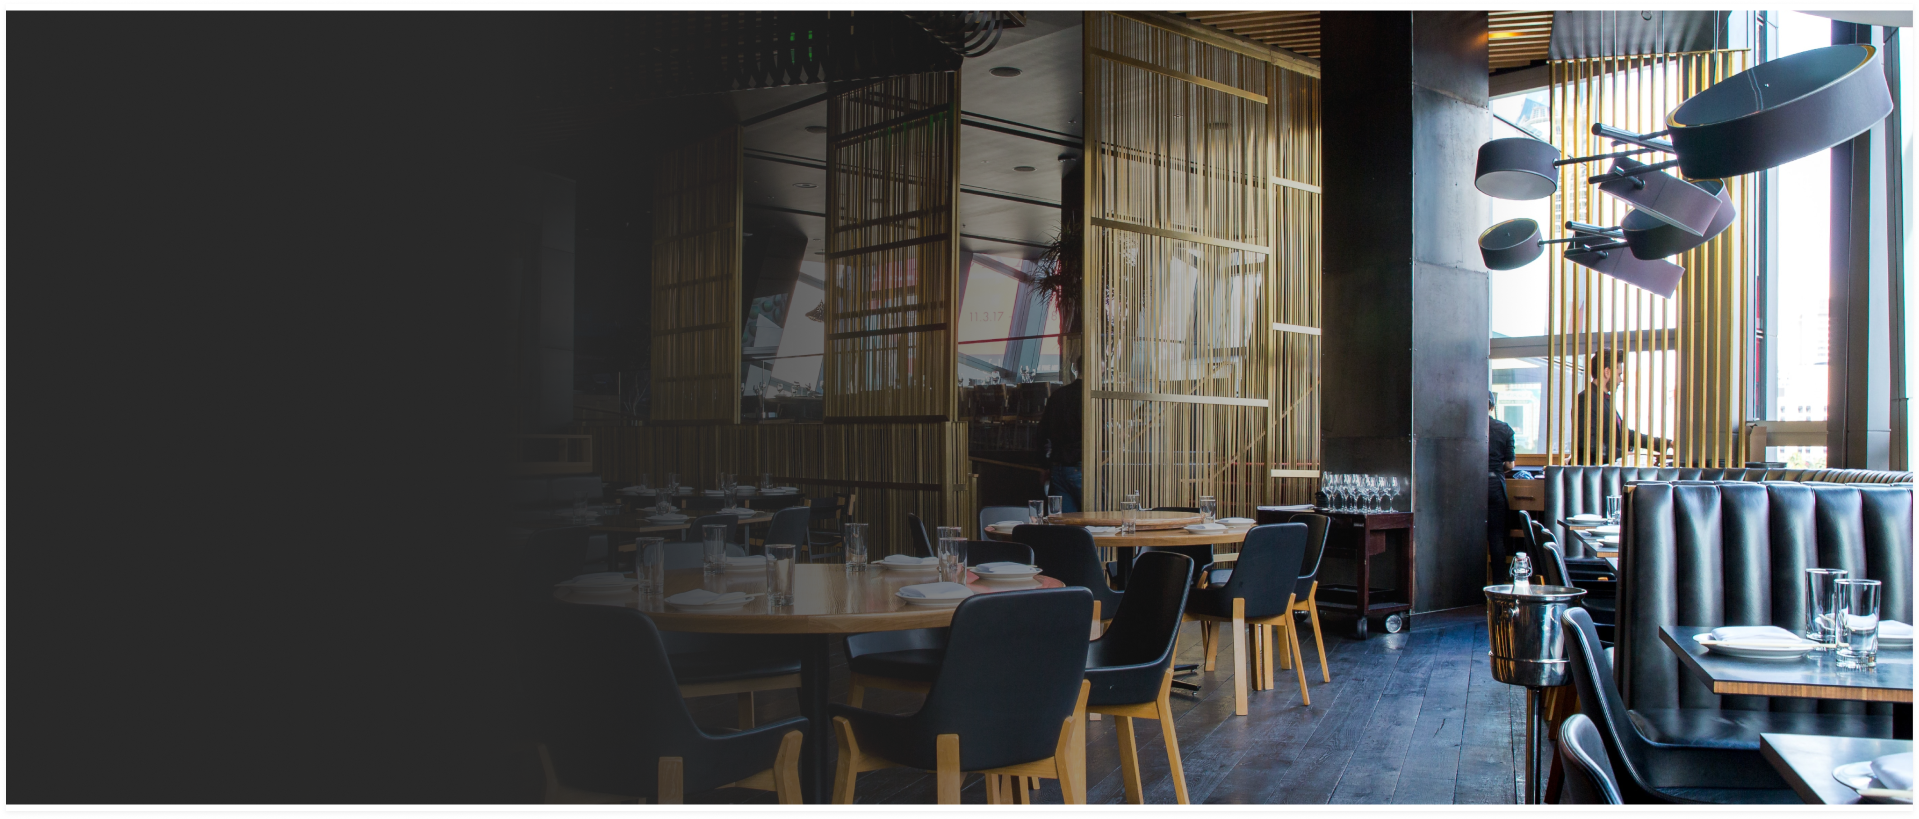
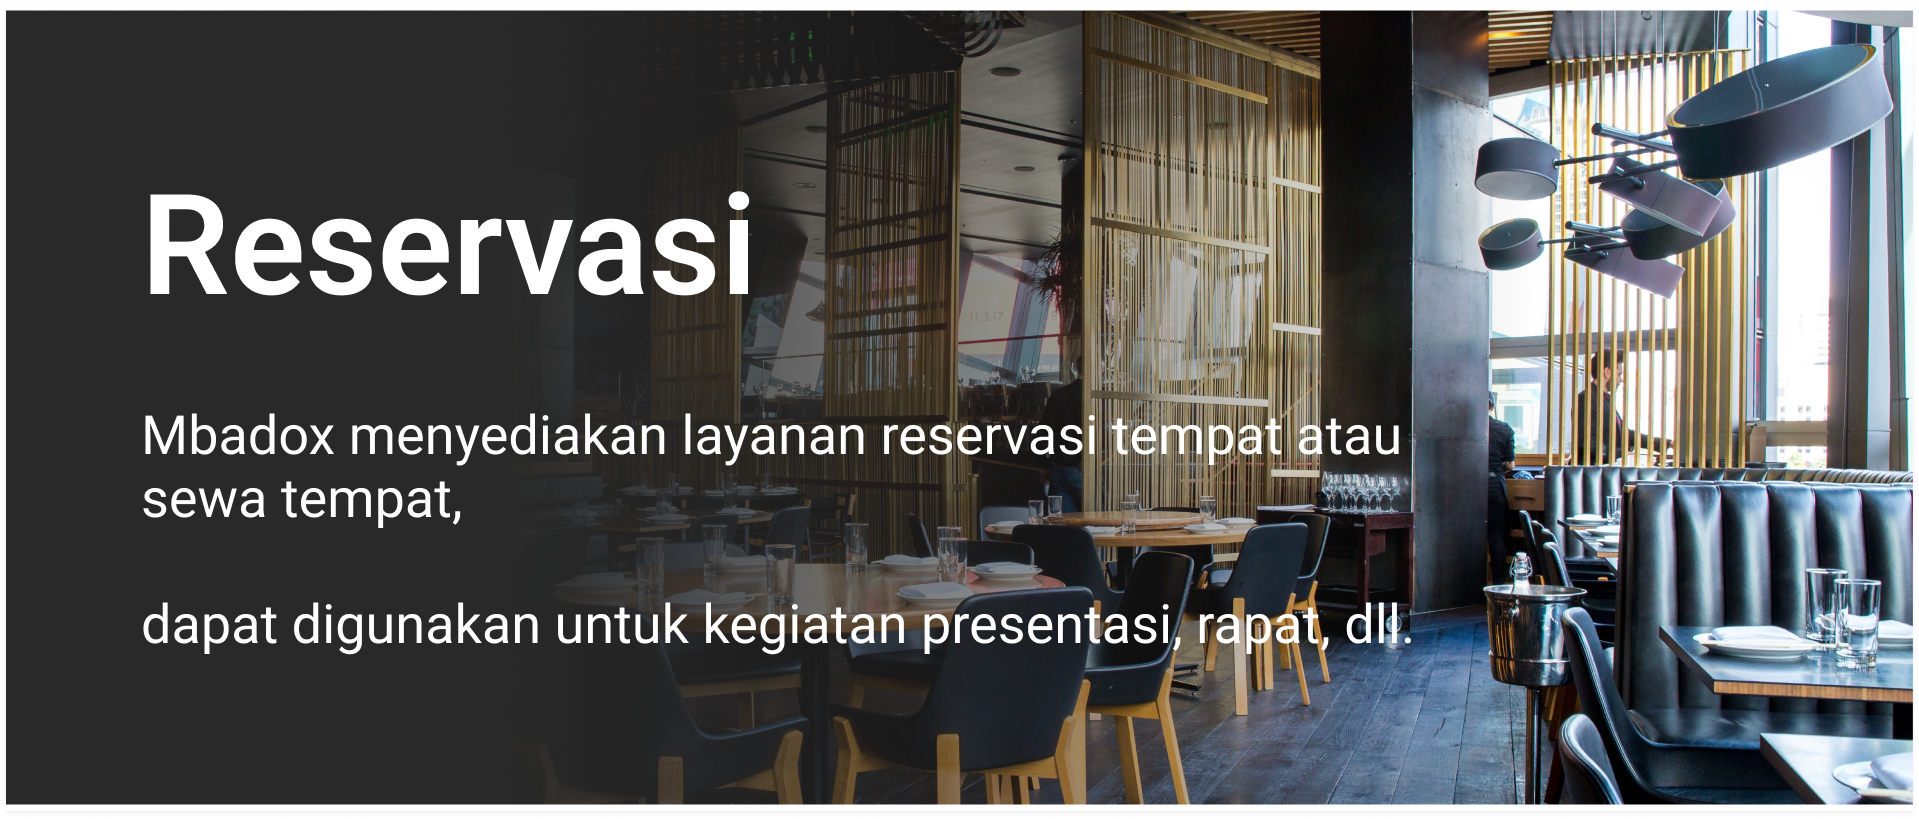
update gambar reservasi

Changed region(s): [[0.0615, 0.2137, 0.3997, 0.3663], [0.0615, 0.7326, 0.7379, 0.7937], [0.0615, 0.5189, 0.7379, 0.641]]

diff --git a/lib/Reservasi/Reservasi.dart b/lib/Reservasi/Reservasi.dart
@@ -21,103 +21,122 @@ class Reservasi extends StatelessWidget {
 
   @override
   Widget build(BuildContext context) {
-    return SingleChildScrollView(
-      child: Column(
-        children: [
-          Container(
-              margin: EdgeInsets.fromLTRB(0, 0, 0, 20),
-              decoration: BoxDecoration(boxShadow: [
-                BoxShadow(
-                    color: Color.fromARGB(255, 197, 197, 197),
-                    blurRadius: 6,
-                    offset: Offset(0, 2))
-              ]),
-              child: Image.asset('image/appbarReservasi2.png')),
-          // MENU SEBELAH KIRI //
-          Row(
-            children: [
-              // MENU KIRI //
-              Expanded(
-                  child: Column(
-                children: [
-                  CardReservasi(
-                    namaGambar: 'images/RES1.png',
-                  ),
-                  CardReservasi(
-                    namaGambar: 'images/RES1.png',
-                  ),
-                  CardReservasi(
-                    namaGambar: 'images/RES1.png',
-                  ),
-                ],
-              )),
+    return Container(
+      color: Color.fromARGB(255, 247, 246, 255),
+      child: SingleChildScrollView(
+        child: Column(
+          children: [
+            // IMAGE RESERVASI + DESKRIPSI //
+            Container(
+                margin: EdgeInsets.fromLTRB(0, 0, 0, 20),
+                decoration: BoxDecoration(boxShadow: [
+                  BoxShadow(
+                      color: Color.fromARGB(255, 197, 197, 197),
+                      blurRadius: 6,
+                      offset: Offset(0, 2))
+                ]),
+                child: Image.asset('image/appbarReservasi2.png')),
 
-              // MENU KANAN //
-              Expanded(
-                  child: Column(
-                children: [
-                  Center(
-                    child: Container(
-                      margin: EdgeInsetsDirectional.all(30),
-                      padding: EdgeInsetsDirectional.all(10),
-                      alignment: Alignment.center,
-                      decoration: BoxDecoration(
-                        color: Colors.white,
-                        borderRadius: BorderRadius.circular(5),
-                        boxShadow: [
-                          BoxShadow(
-                              color: Color.fromARGB(255, 197, 197, 197),
-                              blurRadius: 6,
-                              offset: Offset(0, 2))
-                        ],
-                      ),
-                      child: Text('FILTER'),
-                    ),
-                  ),
-                  CardReservasi(
-                    namaGambar: 'images/RES1.png',
-                  ),
-                  CardReservasi(
-                    namaGambar: 'images/RES1.png',
-                  ),
-                ],
-              )),
-            ],
-          ),
-
-          Container(
-            margin: EdgeInsetsDirectional.fromSTEB(0, 20, 0, 20),
-            alignment: FractionalOffset.center,
-            child: Wrap(
-              spacing: 10,
-              alignment: WrapAlignment.center,
-              runSpacing: 10,
+            // MENU SEBELAH KIRI //
+            Row(
               children: [
-                Text('CUSTOMER SERVICE'),
-                Text(
-                    'Silakan hubungi customer service kami dengan mengakses button dibawah ini'),
-                Text('Terrima kasih atas kesediaan anda')
+                // MENU KIRI //
+                Expanded(
+                    child: Column(
+                  children: [
+                    CardReservasi(
+                      namaGambar: 'images/RES1.png',
+                    ),
+                    CardReservasi(
+                      namaGambar: 'images/RES1.png',
+                    ),
+                    CardReservasi(
+                      namaGambar: 'images/RES1.png',
+                    ),
+                  ],
+                )),
+
+                // MENU KANAN //
+                Expanded(
+                    child: Column(
+                  children: [
+                    Center(
+                      child: Container(
+                        margin: EdgeInsetsDirectional.all(30),
+                        padding: EdgeInsetsDirectional.all(10),
+                        alignment: Alignment.center,
+                        decoration: BoxDecoration(
+                          color: Colors.white,
+                          borderRadius: BorderRadius.circular(5),
+                          boxShadow: [
+                            BoxShadow(
+                                color: Color.fromARGB(255, 197, 197, 197),
+                                blurRadius: 6,
+                                offset: Offset(0, 2))
+                          ],
+                        ),
+                        child: Text('FILTER'),
+                      ),
+                    ),
+                    CardReservasi(
+                      namaGambar: 'images/RES1.png',
+                    ),
+                    CardReservasi(
+                      namaGambar: 'images/RES1.png',
+                    ),
+                  ],
+                )),
               ],
             ),
-          ),
-          Container(
-            margin: EdgeInsetsDirectional.fromSTEB(0, 0, 0, 40),
-            height: 40,
-            width: 180,
-            decoration: BoxDecoration(color: Colors.white, boxShadow: [
-              BoxShadow(
-                  color: Color.fromARGB(255, 197, 197, 197),
-                  blurRadius: 6,
-                  offset: Offset(0, 2))
-            ]),
-            child: Center(
-              child: Text(
-                'HERE',
-                textAlign: TextAlign.center,
+
+            // CUSTOMER SERVICE //
+            Container(
+              height: 200,
+              decoration: BoxDecoration(
+                  image: DecorationImage(
+                      fit: BoxFit.fill,
+                      image: AssetImage('image/mainGradasi.png'))),
+              child: Column(
+                children: [
+                  // WARP FIRST
+                  Container(
+                    margin: EdgeInsetsDirectional.fromSTEB(0, 20, 0, 20),
+                    alignment: FractionalOffset.center,
+                    child: Wrap(
+                      spacing: 10,
+                      alignment: WrapAlignment.center,
+                      runSpacing: 10,
+                      children: [
+                        Text('CUSTOMER SERVICE'),
+                        Text(
+                            'Silakan hubungi customer service kami dengan mengakses button dibawah ini'),
+                        Text('Terrima kasih atas kesediaan anda')
+                      ],
+                    ),
+                  ),
+                  // BUTTON HERE
+                  Container(
+                    margin: EdgeInsetsDirectional.fromSTEB(0, 0, 0, 40),
+                    height: 40,
+                    width: 180,
+                    decoration: BoxDecoration(color: Colors.white, boxShadow: [
+                      BoxShadow(
+                          color: Color.fromARGB(255, 197, 197, 197),
+                          blurRadius: 6,
+                          offset: Offset(0, 2))
+                    ]),
+                    child: Center(
+                      child: Text(
+                        'HERE',
+                        textAlign: TextAlign.center,
+                      ),
+                    ),
+                  ),
+                ],
               ),
-            ),
-          ),
-        ],
+            )
+          ],
+        ),
       ),
     );
   }
